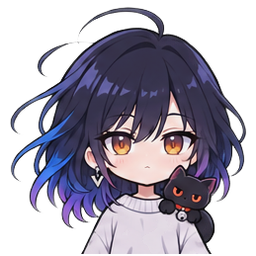
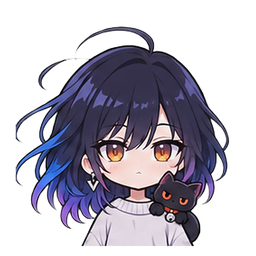
v0.6.2：减弱跳动/律动幅度；插件页未装桌面版时提示下载；插件页减少重复渲染、轮询防空转；换头肩像图标

diff --git a/plugin/main-view.js b/plugin/main-view.js
@@ -105,7 +105,8 @@ function render() {
   const im = cur(); if (!im) return;
   const ref = pose === 'walk' ? im.bh : imgs.idle.bh; const s = targetH() / ref;
   const w = im.w * s, h = im.h * s;
-  sprite.src = im.src; sprite.style.width = w + 'px'; sprite.style.height = h + 'px';
+  if (sprite.getAttribute('data-k') !== im.src) { sprite.src = im.src; sprite.setAttribute('data-k', im.src); }   // 同一张图不重复赋值，避免 16ms 一次地重解码
+  const ws = w + 'px', hs = h + 'px'; if (sprite.style.width !== ws) sprite.style.width = ws; if (sprite.style.height !== hs) sprite.style.height = hs;
   sprite.style.transformOrigin = '50% 100%';
   lastW = w; sprite.style.transform = xform();
   placeBubble(w, h, s, im);
@@ -375,6 +376,7 @@ function buildBar() {
   $('#sync').onchange = (e) => { S.sync = e.target.checked; saveState(); if (S.sync) { say('好，设置和我的话都会同步给桌面版。'); pingDesktop(); } };
 }
 function markOutfit() { document.querySelectorAll('#outfits .chip').forEach((b) => b.classList.toggle('on', b.dataset.id === S.outfit)); }
+let offlineN = 0;
 async function pingDesktop() {
   const r = await request({ type: 'status' }, 10000);
   const dot = $('#dot'); const on = !!(r && r.desktopOnline);
@@ -383,6 +385,9 @@ async function pingDesktop() {
     else if ((S.sharedAt || 0) > r.desktop.at) pushShared();
   }
   if (on && S.sync && r.desktop) applyMedia(r.desktop.media, r.desktop.bpm);          // 页面刚打开 / 错过推送时，也能追上桌面版正在听什么
+  offlineN = on ? 0 : offlineN + 1;
+  $('#dl').classList.toggle('hidden', on || (offlineN < 2 && S.dlSeen));       // 首次打开且没检测到桌面版：马上提示下载；之后连续两次没连上才再提示，避免偶发抖动
+  if (!on && !S.dlSeen) { S.dlSeen = true; saveState(); }
   dot.className = 'dot ' + (on ? 'on' : 'off'); dot.title = on ? '桌面版在线' : '未检测到桌面版';
   $('#hint').textContent = on
     ? '桌面版在线。想让它用 Cindy 的模型聊天：桌面版右键 → 设置 → 对话来源选“Cindy 模型”（需保持本页面打开）。'

diff --git a/renderer/pet.js b/renderer/pet.js
@@ -541,13 +541,13 @@ function danceStep(t, dt) {
     if (quietMs < 500 && bass > bassAvg * 1.12 + 10 && bass > 70 && t - lastBeat > 230) onBeat(Math.min(1, (bass - bassAvg) / 70 + 0.3), t);
     else if (quietMs < 500) beatEnv = Math.max(beatEnv, Math.min(0.3, all / 255 * 0.5));   // 没有明显鼓点时随整体音量轻轻起伏
   } else if (t > fakeNext) {                                                                // 没有系统声音：固定节奏（约 104 拍/分钟）
-    fakeNext = t + 575; onBeat(0.5, t); curBpm = 104;
+    fakeNext = t + 575; onBeat(0.2, t); curBpm = 104;
   }
   beatEnv *= Math.exp(-dt / 150);
   sway += (swayTarget - sway) * (1 - Math.exp(-dt / 110)); swayTarget *= Math.exp(-dt / 600);
   const sc = cfg.scale || 1;
   sprite.style.transformOrigin = '50% 96%';
-  sprite.style.transform = `translateX(-50%) translateY(${(-beatEnv * 10 * sc).toFixed(1)}px) rotate(${sway.toFixed(2)}deg) scale(${(1 - beatEnv * 0.015).toFixed(3)}, ${(1 + beatEnv * 0.03).toFixed(3)})`;
+  sprite.style.transform = `translateX(-50%) translateY(${(-beatEnv * (audio ? 7 : 3) * sc).toFixed(1)}px) rotate(${sway.toFixed(2)}deg) scale(${(1 - beatEnv * 0.015).toFixed(3)}, ${(1 + beatEnv * 0.03).toFixed(3)})`;
   danced = true;
   if (t - lastReport > 4000) { lastReport = t; window.pet.reportBeat({ bpm: curBpm, real: !!audio }); }        // 告诉 Cindy 里的桌宠页同一个速度
 }

diff --git a/plugin/main.js b/plugin/main.js
@@ -217,6 +217,7 @@ async function relayLoop() {
       const r = await cindy.node.request({ method: 'relay/poll', params: {}, timeoutMs: 100000 });
       if (!r.ok) { await sleep(4000); continue; }
       const job = r.result;
+      if (!r.result) { await sleep(300); continue; }   // 空轮询：稍等再来，避免宿主异常时空转占满 CPU
       if (job && job.event === 'state') { bc.postMessage({ type: 'state', state: job.state }); continue; }   // 桌面版改了设置 -> 通知页面
       if (job && job.event === 'act') { bc.postMessage({ type: 'act', act: job.act }); continue; }
       if (job && job.event === 'media') { bc.postMessage({ type: 'media', media: job.media }); continue; }          // 桌面版在听歌/看视频 -> 页面里的桌宠也跟着          // 桌面版做了动作 -> 页面里的桌宠也做

diff --git a/renderer/style.css b/renderer/style.css
@@ -5,8 +5,8 @@ html, body { width: 100%; height: 100%; overflow: hidden; background: transparen
 #sprite.dock-l { left: 0; transform: none; }
 #sprite.dock-r { left: auto; right: 0; transform: scaleX(-1); }
 #sprite.flip { transform: translateX(-50%) scaleX(-1); }
-#sprite.bob { animation: bob .32s ease-in-out infinite alternate; }
-@keyframes bob { from { margin-bottom: 0; } to { margin-bottom: 5px; } }
+#sprite.bob { animation: bob .45s ease-in-out infinite alternate; }
+@keyframes bob { from { margin-bottom: 0; } to { margin-bottom: 3px; } }
 #sprite.breath { animation: breath 3.2s ease-in-out infinite; transform-origin: 50% 100%; }
 @keyframes breath { 0%,100% { transform: translateX(-50%) scaleY(1); } 50% { transform: translateX(-50%) scaleY(1.012); } }
 

diff --git a/plugin/main-view.css b/plugin/main-view.css
@@ -63,3 +63,7 @@ button.mini { font: inherit; font-size: 12px; padding: 2px 8px; border-radius: 6
   82%  { opacity: .9; transform: translate(calc(var(--dx, 20px) * .6), -108px) rotate(calc(var(--r0, 10deg) * -.5)) scale(.95); }
   100% { opacity: 0; transform: translate(calc(var(--dx, 20px) * -.2), -135px) rotate(var(--r0, 10deg)) scale(.85); }
 }
+
+#dl { margin-top: 6px; padding: 8px 10px; border-radius: 10px; border: 1px solid var(--border, #5b6cff); font-size: 12px; display: flex; flex-wrap: wrap; gap: 4px 10px; align-items: center; }
+#dl.hidden { display: none; }
+#dl a { margin-left: auto; padding: 4px 12px; border-radius: 999px; background: #5b6cff; color: #fff; text-decoration: none; font-weight: 600; }

diff --git a/plugin/main-view.html b/plugin/main-view.html
@@ -41,6 +41,7 @@
   <section id="chat">
     <div id="log"></div>
     <form id="form"><input id="input" autocomplete="off" placeholder="和我说点什么，或在头上来回摸一摸…"><button type="submit">发送</button></form>
+    <div id="dl" class="hidden"><b>还没装桌面版？</b><span>桌面版能让我常驻桌面、陪你听歌看视频。下载安装后启动，这里会亮绿点。</span><a id="dlLink" href="https://github.com/byl132/cindy-pet/releases/latest" target="_blank" rel="noopener">下载桌面版</a></div>
     <div id="hint"></div>
   </section>
 </div>
